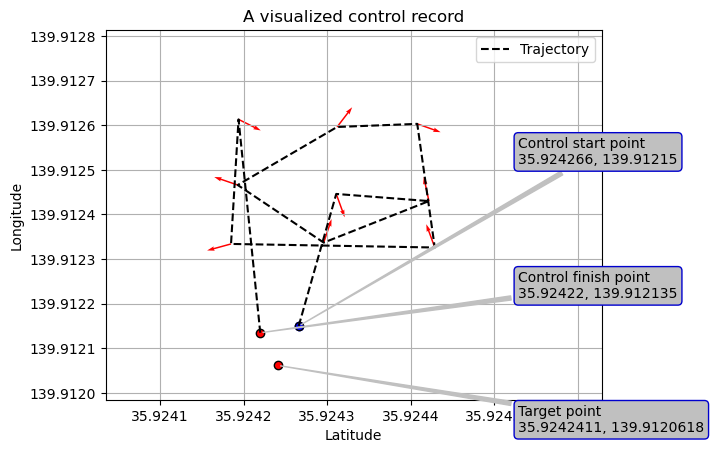
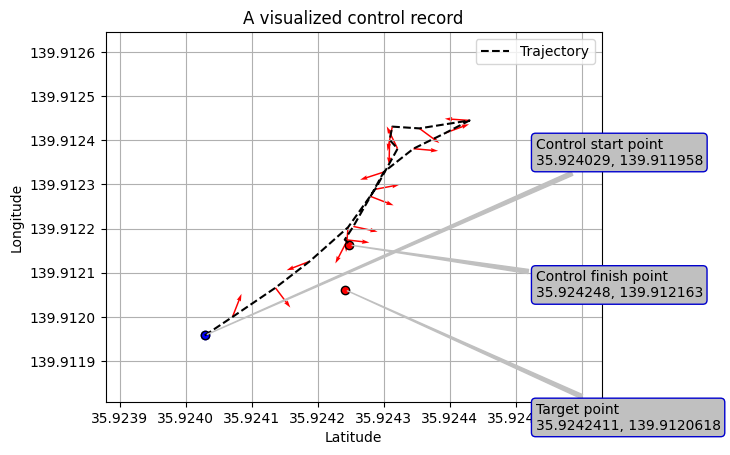
テスト

diff --git a/beta_get_map.py b/beta_get_map.py
@@ -95,7 +95,7 @@ def get_map(file_path, lat_goal, lon_goal):
 
 
 if __name__ == '__main__':
-    file_path = 'report_0020_a.csv'
+    file_path = 'report_0022.csv'
     lat_goal = 35.9242411
     lon_goal = 139.9120618
 
